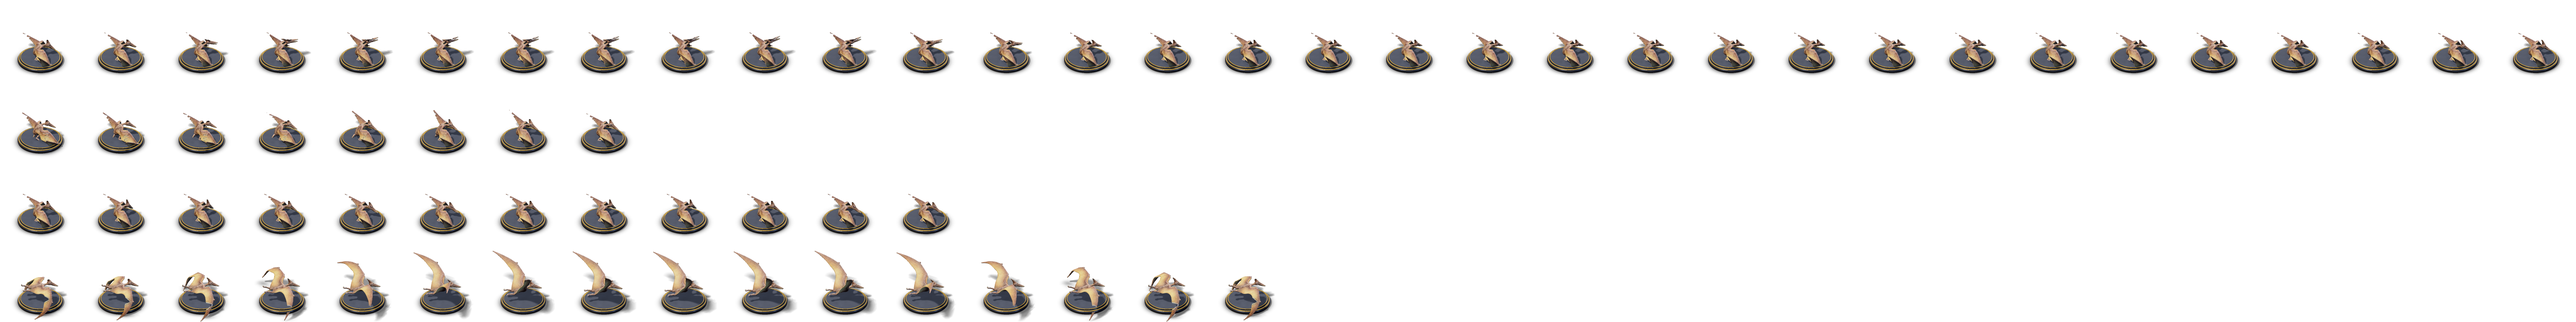
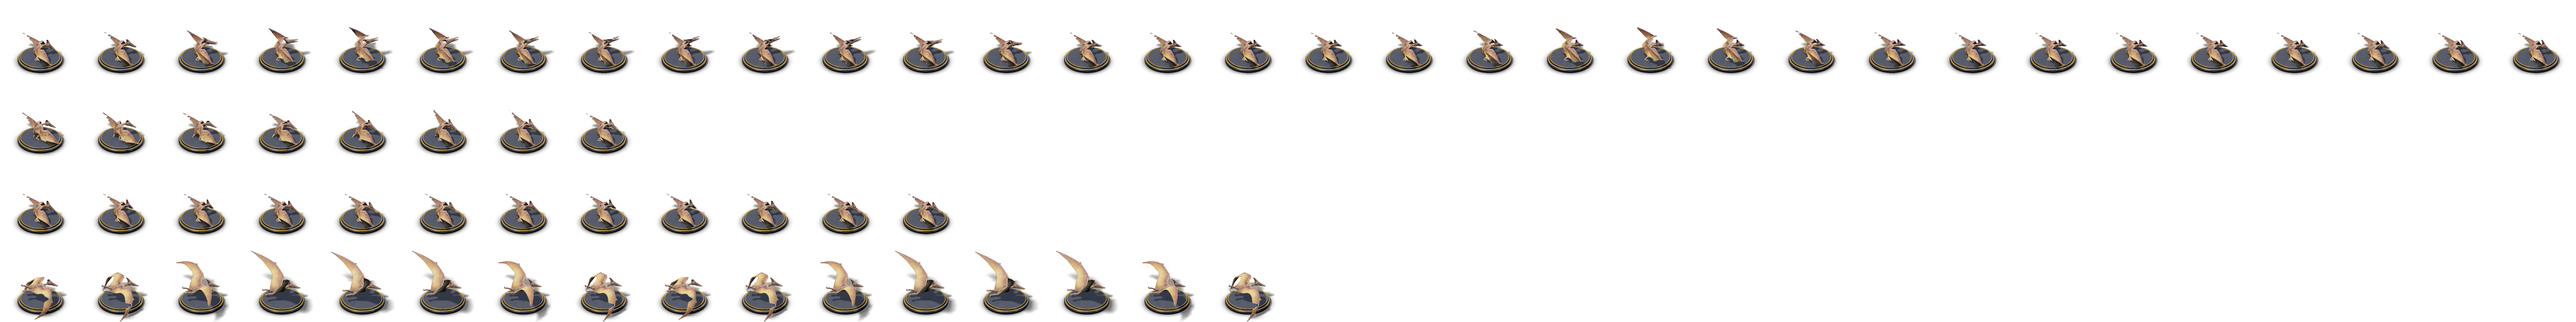
Pteranodon figurine: the folded wings beat a little twice in the idle loop; two wing beats per win loop (loopcheck: all loops join)

Changed region(s): [[0.0312, 0.8125, 0.5, 1.0], [0.0938, 0.0938, 0.2188, 0.1875], [0.5938, 0.0938, 0.6875, 0.2188]]

diff --git a/app/tools/sprites/dinos.py b/app/tools/sprites/dinos.py
@@ -385,8 +385,8 @@ _ptera = None
 
 def pteranodon(anim, t, side):
     """Standing on its folded wings and short legs (idle: the model's 'standing'
-    clip, a seamless 4 s cut), walking on all fours (move), shaking its head
-    (blocked), flapping above its base (win: one beat of 'flying', there and back)."""
+    clip, a seamless 4 s cut, the wings beating a little twice), walking on all fours (move), shaking its head
+    (blocked), flapping above its base (win: a beat of 'flying' there and back, twice)."""
     global _ptera
     from gltf_mesh import GltfMesh, grid_part
     if _ptera is None:
@@ -396,13 +396,15 @@ def pteranodon(anim, t, side):
     base(sc, side)
     lift = 0.0
     if anim == "idle":
-        v = m.loop_pose("standing", 2.4, 4.0, t, fade=0.15)
+        flap = 0.5 * max(0.0, math.sin(TAU * 2 * t)) ** 3            # twice per loop, the folded wings lift and fall
+        turn = {m.node("LupperArm"): ((0, 0, 1), flap), m.node("RupperArm"): ((0, 0, 1), -flap)}
+        v = m.loop_pose("standing", 2.4, 4.0, t, fade=0.15, turn=turn)
     elif anim == "move":
         v = m.pose("walking", 0.6 + 1.0 * t)
     elif anim == "blocked":
         v = m.pose("standing", 2.4, turn={m.node("neck_02"): ((0, 1, 0), 0.45 * math.sin(TAU * 2 * t))})
     else:                                  # win: in flight, the body ~0.25 above the base
-        v = m.pose("flying", 4.4 + 0.6 * (1 - math.cos(TAU * t)) / 2)    # one wing beat, down → up → down
+        v = m.pose("flying", 4.4 + 0.6 * (1 - math.cos(TAU * 2 * t)) / 2)    # two wing beats, down → up → down
         lift = -0.30
     v = v.copy()
     v[:, 1] += lift
